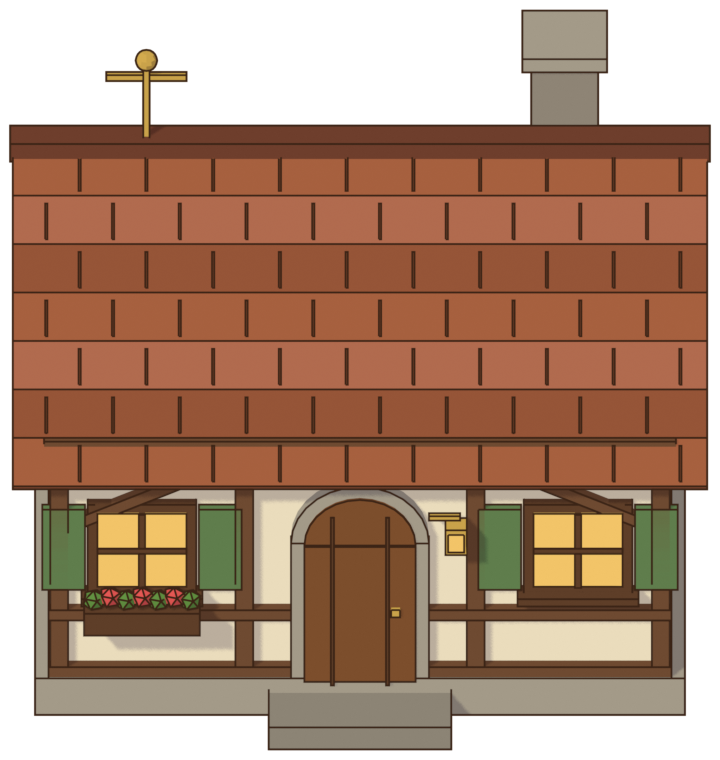
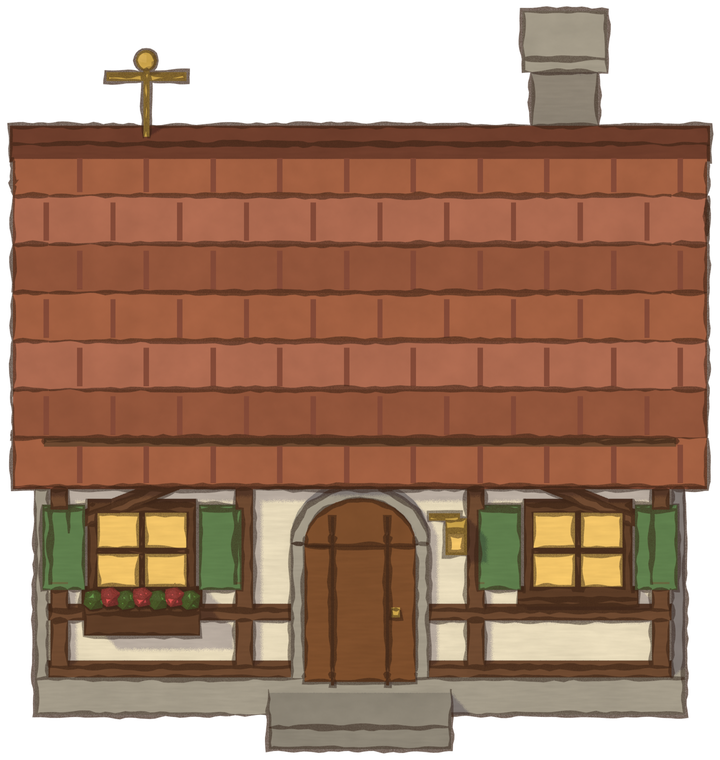
Softer, painterly pass on the farm cottage and farmhouse
Claude-Session: https://claude.ai/code/session_01BTTj8a1B5QVYLgtfGJQMDk

diff --git a/art/buildings/README.md b/art/buildings/README.md
@@ -4,7 +4,8 @@ Made in Blender on Henry: `Documents/SpacePiece_Blender/space_piece_buildings.bl
 The build scripts are text blocks inside that file (`sp_lib.py`, `build_house.py`, `build_farmhouse.py`).
 Re-run a script in Blender's Text Editor to rebuild a building after changing it.
 
-- Look: cel shading (one shadow tone and one highlight per material), dark warm-brown outline (Freestyle), sun from the upper left.
+- Look (softer, painterly pass): eased shadow/highlight transitions, subtle blotchy and brush-streak colour variation, soft corner darkening (AO), hand-drawn tapered and wobbly warm-brown outline (Freestyle), sun from the upper left. Roof shingle breaks are colour only, with no ink line.
+- Rendered at 2x and downscaled with Lanczos for soft edges.
 - Camera: orthographic, 30° above the horizon, front-on, at 89 px per metre. That matches Arthur's art scale (133 px ≈ 1.5 m), so these sprites use the same in-game scale as he does.
 - farm_cottage.png: 720x760. Eave ≈ 2.4× hero height; door ≈ 1.4× hero height.
 - farmhouse.png: 908x1076. Eave ≈ 3.6× hero height; door ≈ 1.4× hero height.
